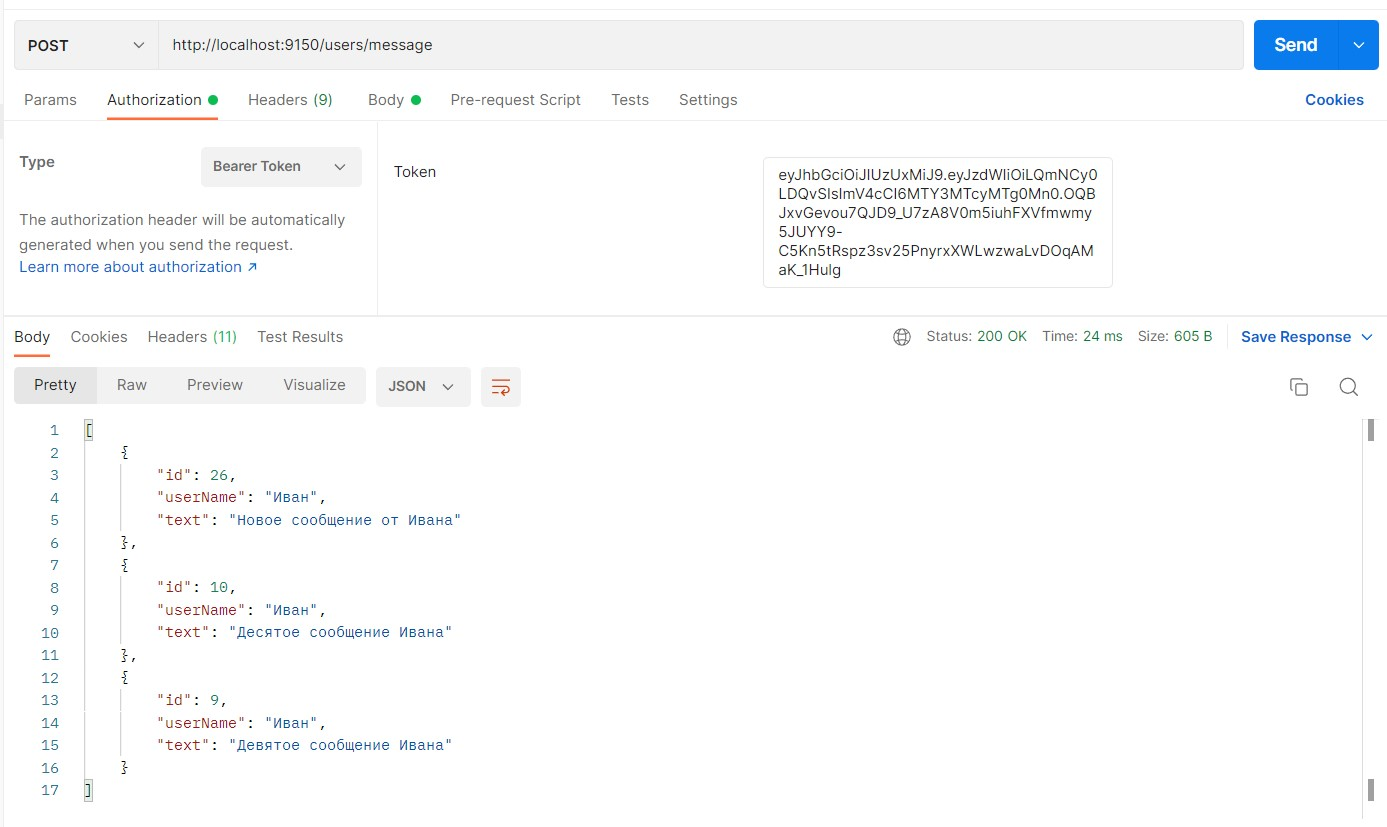
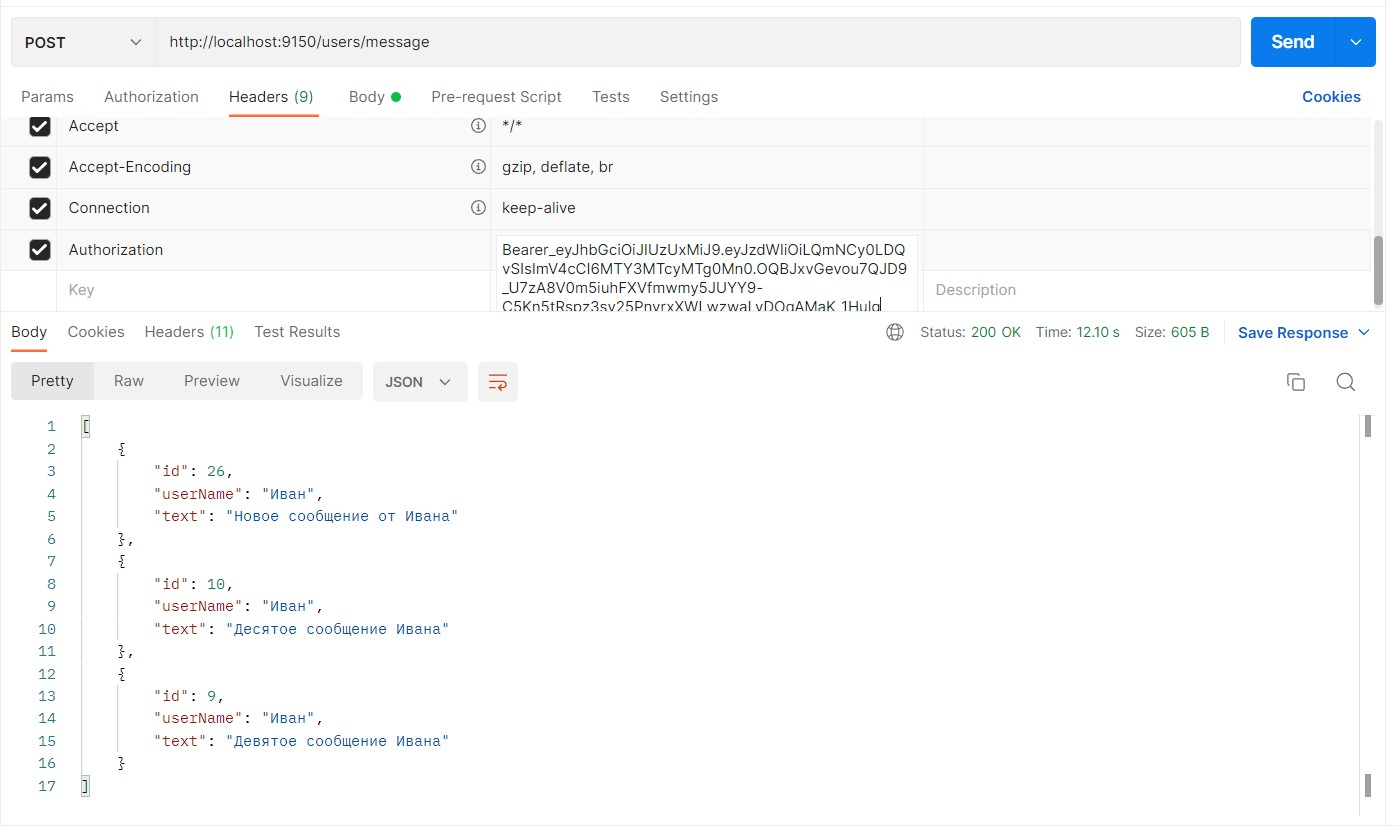
change images, filter

diff --git a/src/main/java/info/inside/jwt/config/JwtFilter.java b/src/main/java/info/inside/jwt/config/JwtFilter.java
@@ -42,7 +42,7 @@ public class JwtFilter extends GenericFilterBean {
 
     private String getTokenFromRequest(HttpServletRequest request) {
         String bearer = request.getHeader(AUTHORIZATION);
-        if (hasText(bearer) && bearer.startsWith("Bearer ")) {
+        if (hasText(bearer) && bearer.startsWith("Bearer_")) {
             return bearer.substring(7);
         }
         logger.info("Token from request is null");
